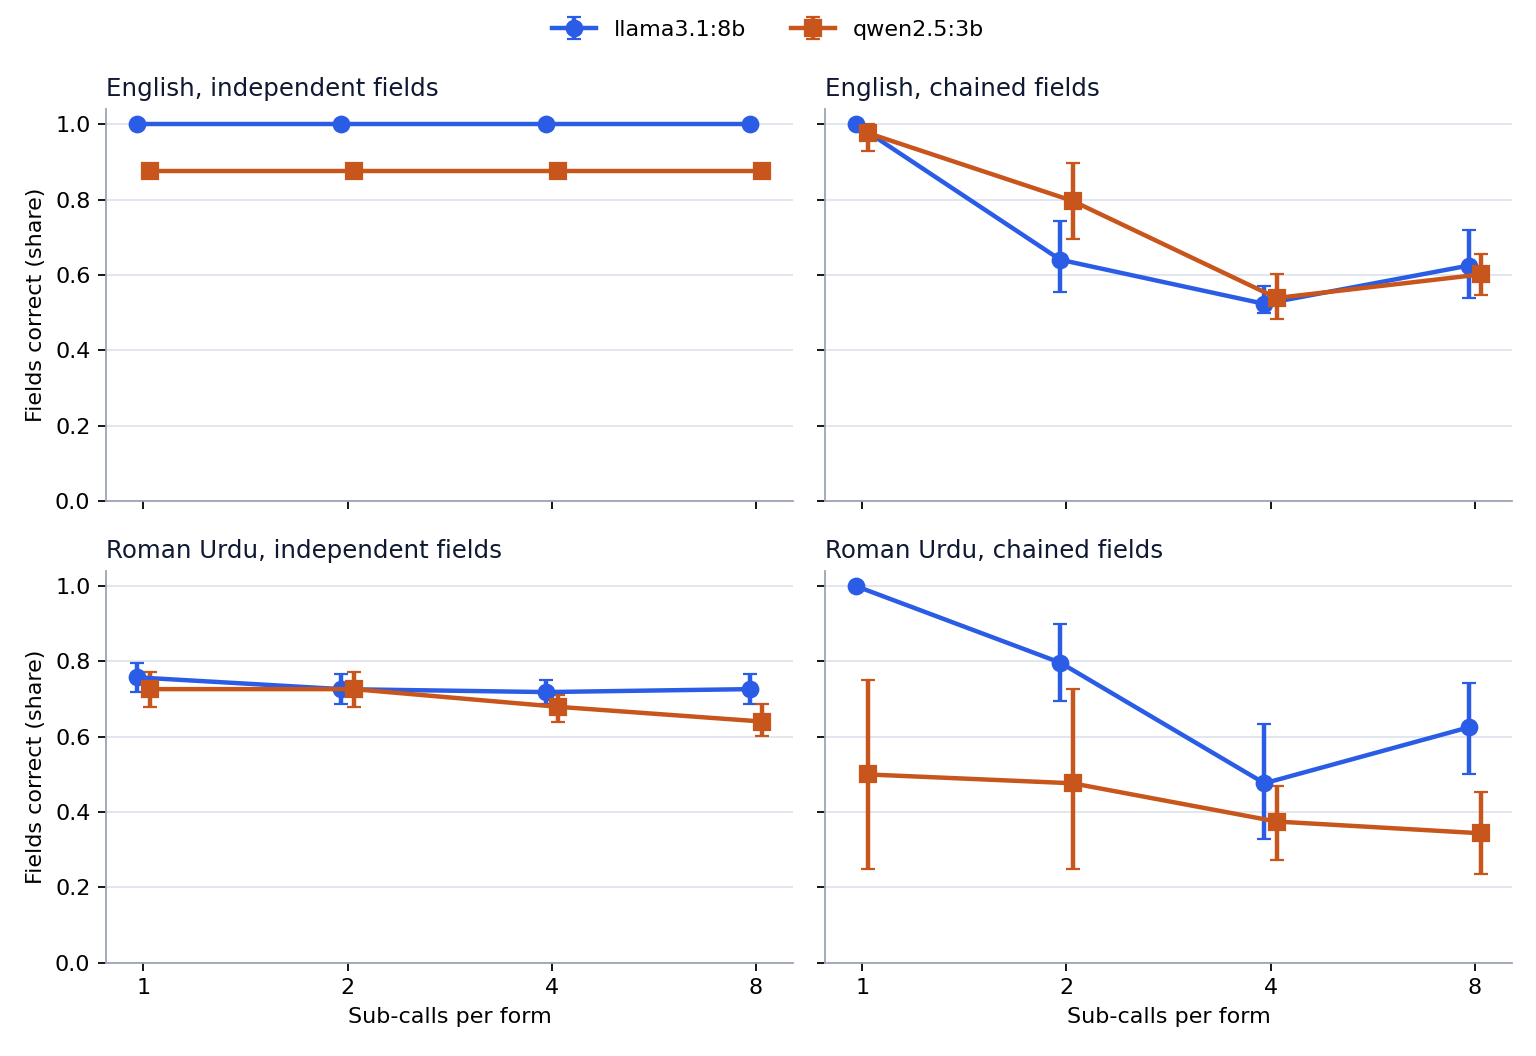
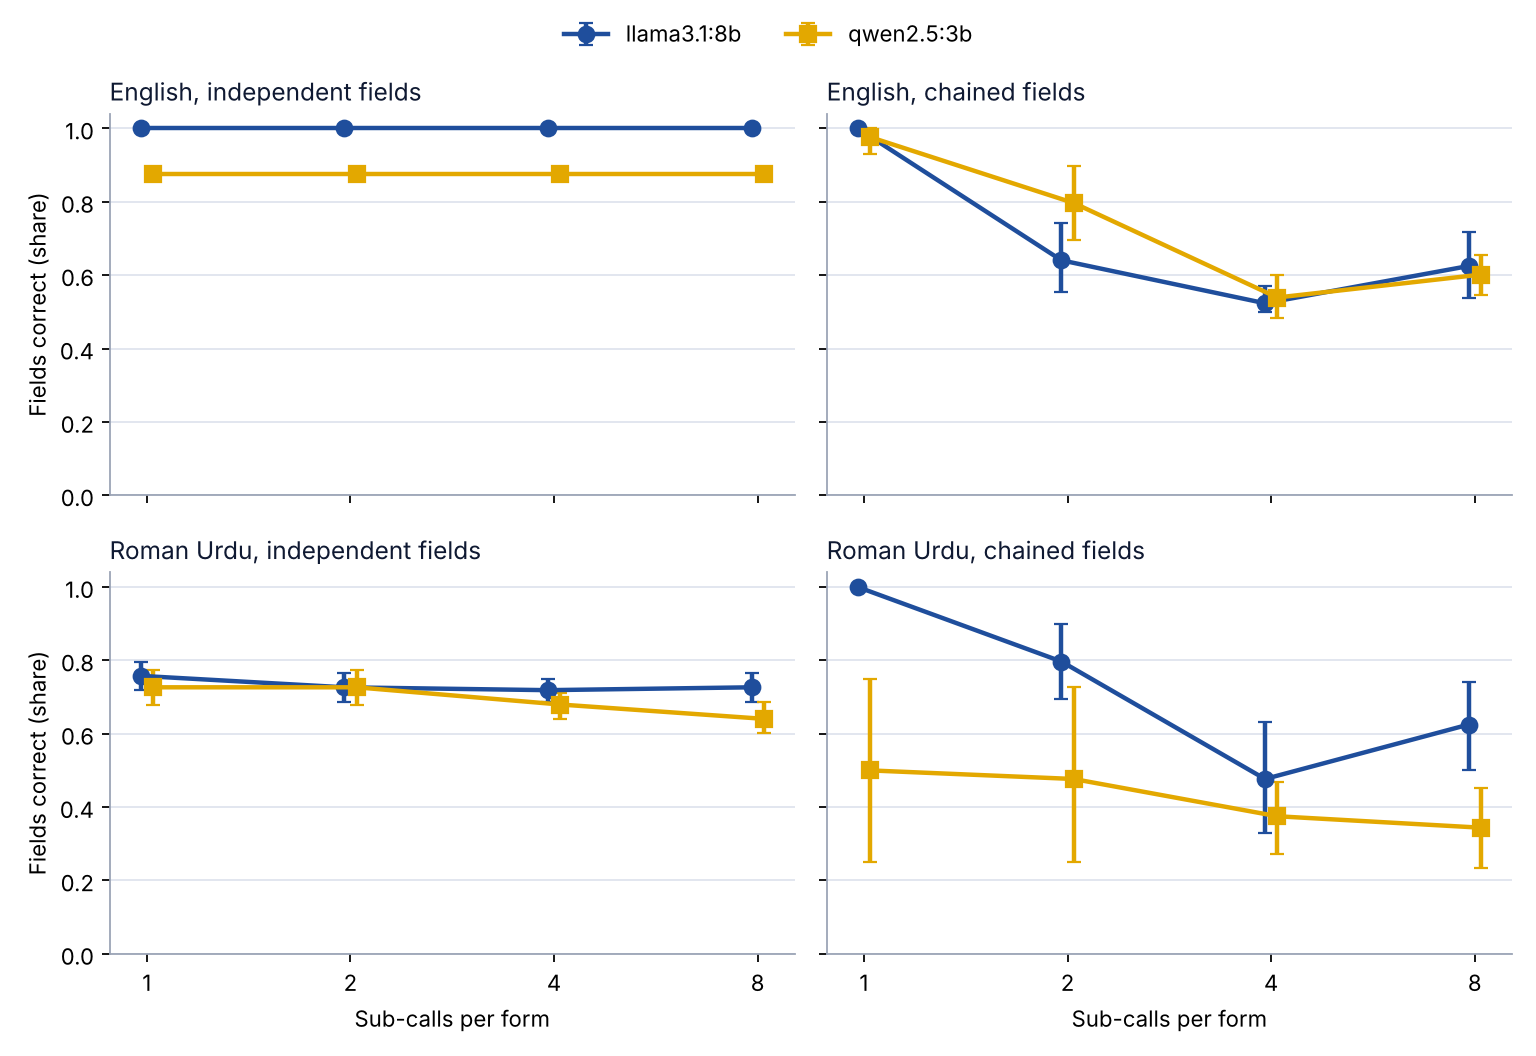
Add results to README and use the house chart colours

diff --git a/analysis.py b/analysis.py
@@ -24,8 +24,9 @@ PER_RUN_FIELDS = [
     "prompt_chars", "output_tokens", "seconds_total", "seconds_ideal_parallel",
 ]
 Row = Dict[str, object]
-ROYAL, ORANGE, NAVY = "#2b5ce6", "#c8551b", "#0f1932"
-MODEL_STYLE = [(ROYAL, "o"), (ORANGE, "s")]
+# House palette, in this order: blue, yellow, red, light green
+BLUE, YELLOW, RED, GREEN, NAVY = "#1F4E9C", "#E3A800", "#C8102E", "#5FA65A", "#0f1932"
+MODEL_STYLE = [(BLUE, "o"), (YELLOW, "s"), (RED, "^"), (GREEN, "D")]
 
 
 def load_calls(path: str) -> List[Row]:

diff --git a/README.md b/README.md
@@ -49,7 +49,31 @@ The tests run offline with a scripted fake model and include a full end-to-end m
 
 ## Results
 
-Not yet available. This section will be filled from `results/results.json` after the full local run.
+Run complete: 512 forms, 1,920 sub-calls, no unfinished forms and no JSON parse failures. Full numbers with intervals are in `results/results.json`.
+
+**Field accuracy** (share of the 8 fields correct; 16 forms per cell)
+
+| Model | Note | Fields | 1 call | 2 calls | 4 calls | 8 calls |
+|---|---|---|---|---|---|---|
+| llama3.1:8b | English | independent | 1.000 | 1.000 | 1.000 | 1.000 |
+| llama3.1:8b | English | chained | 1.000 | 0.641 | 0.523 | 0.625 |
+| llama3.1:8b | Roman Urdu | independent | 0.758 | 0.727 | 0.719 | 0.727 |
+| llama3.1:8b | Roman Urdu | chained | 1.000 | 0.797 | 0.477 | 0.625 |
+| qwen2.5:3b | English | independent | 0.875 | 0.875 | 0.875 | 0.875 |
+| qwen2.5:3b | English | chained | 0.977 | 0.797 | 0.539 | 0.602 |
+| qwen2.5:3b | Roman Urdu | independent | 0.727 | 0.727 | 0.680 | 0.641 |
+| qwen2.5:3b | Roman Urdu | chained | 0.500 | 0.477 | 0.375 | 0.344 |
+
+What the run shows:
+
+- **Splitting independent fields cost little accuracy.** For English notes it changed nothing for either model; for Roman Urdu the paired differences against one call were between 0 and −8.6 points.
+- **Splitting chained billing fields cost a lot.** Against one call, llama3.1:8b lost 35.9 to 47.7 points on English notes (paired 95% intervals all below zero), and qwen2.5:3b lost 18.0 to 43.8.
+- **Most of that loss is one misread field.** When `fee_per_session` was asked without the other billing fields, llama3.1:8b often returned the fee after the discount: 35 of its 36 wrong English fee values in split forms equal fee × (100 − discount) / 100. With all fields in one call, where `gross_fee` and `discount_amount` are also requested, it made none of these errors. The field description ("fee per session in rupees in the current course") does not say before or after discount, so this is partly an underspecified field, and partly the model losing the context that settled it. Each wrong fee then carried into the gross fee, discount and payable amount.
+- **Roman Urdu notes were harder on extraction, not on splitting.** Typical errors in one call were the joint ("knee" for a hip or ankle), the side, and the review day left untranslated (for example "mangal" for Tuesday).
+- **qwen2.5:3b's 0.875 ceiling on English independent forms is the weekday field alone:** it wrote abbreviations such as "tue" where the prompt asked for one English weekday in lower case, and the scorer requires the full name.
+- **Cost:** for llama3.1:8b on English independent forms, 8 calls took 18.5 s in total against 5.9 s for one call. If the 8 calls ran in parallel the slowest would take 4.2 s; that figure is derived from the sequential run, not measured.
+
+The test of the fee explanation is a rerun with the field described as "before any discount"; that is planned and not part of these results.
 
 ## Synthetic simulator
 
